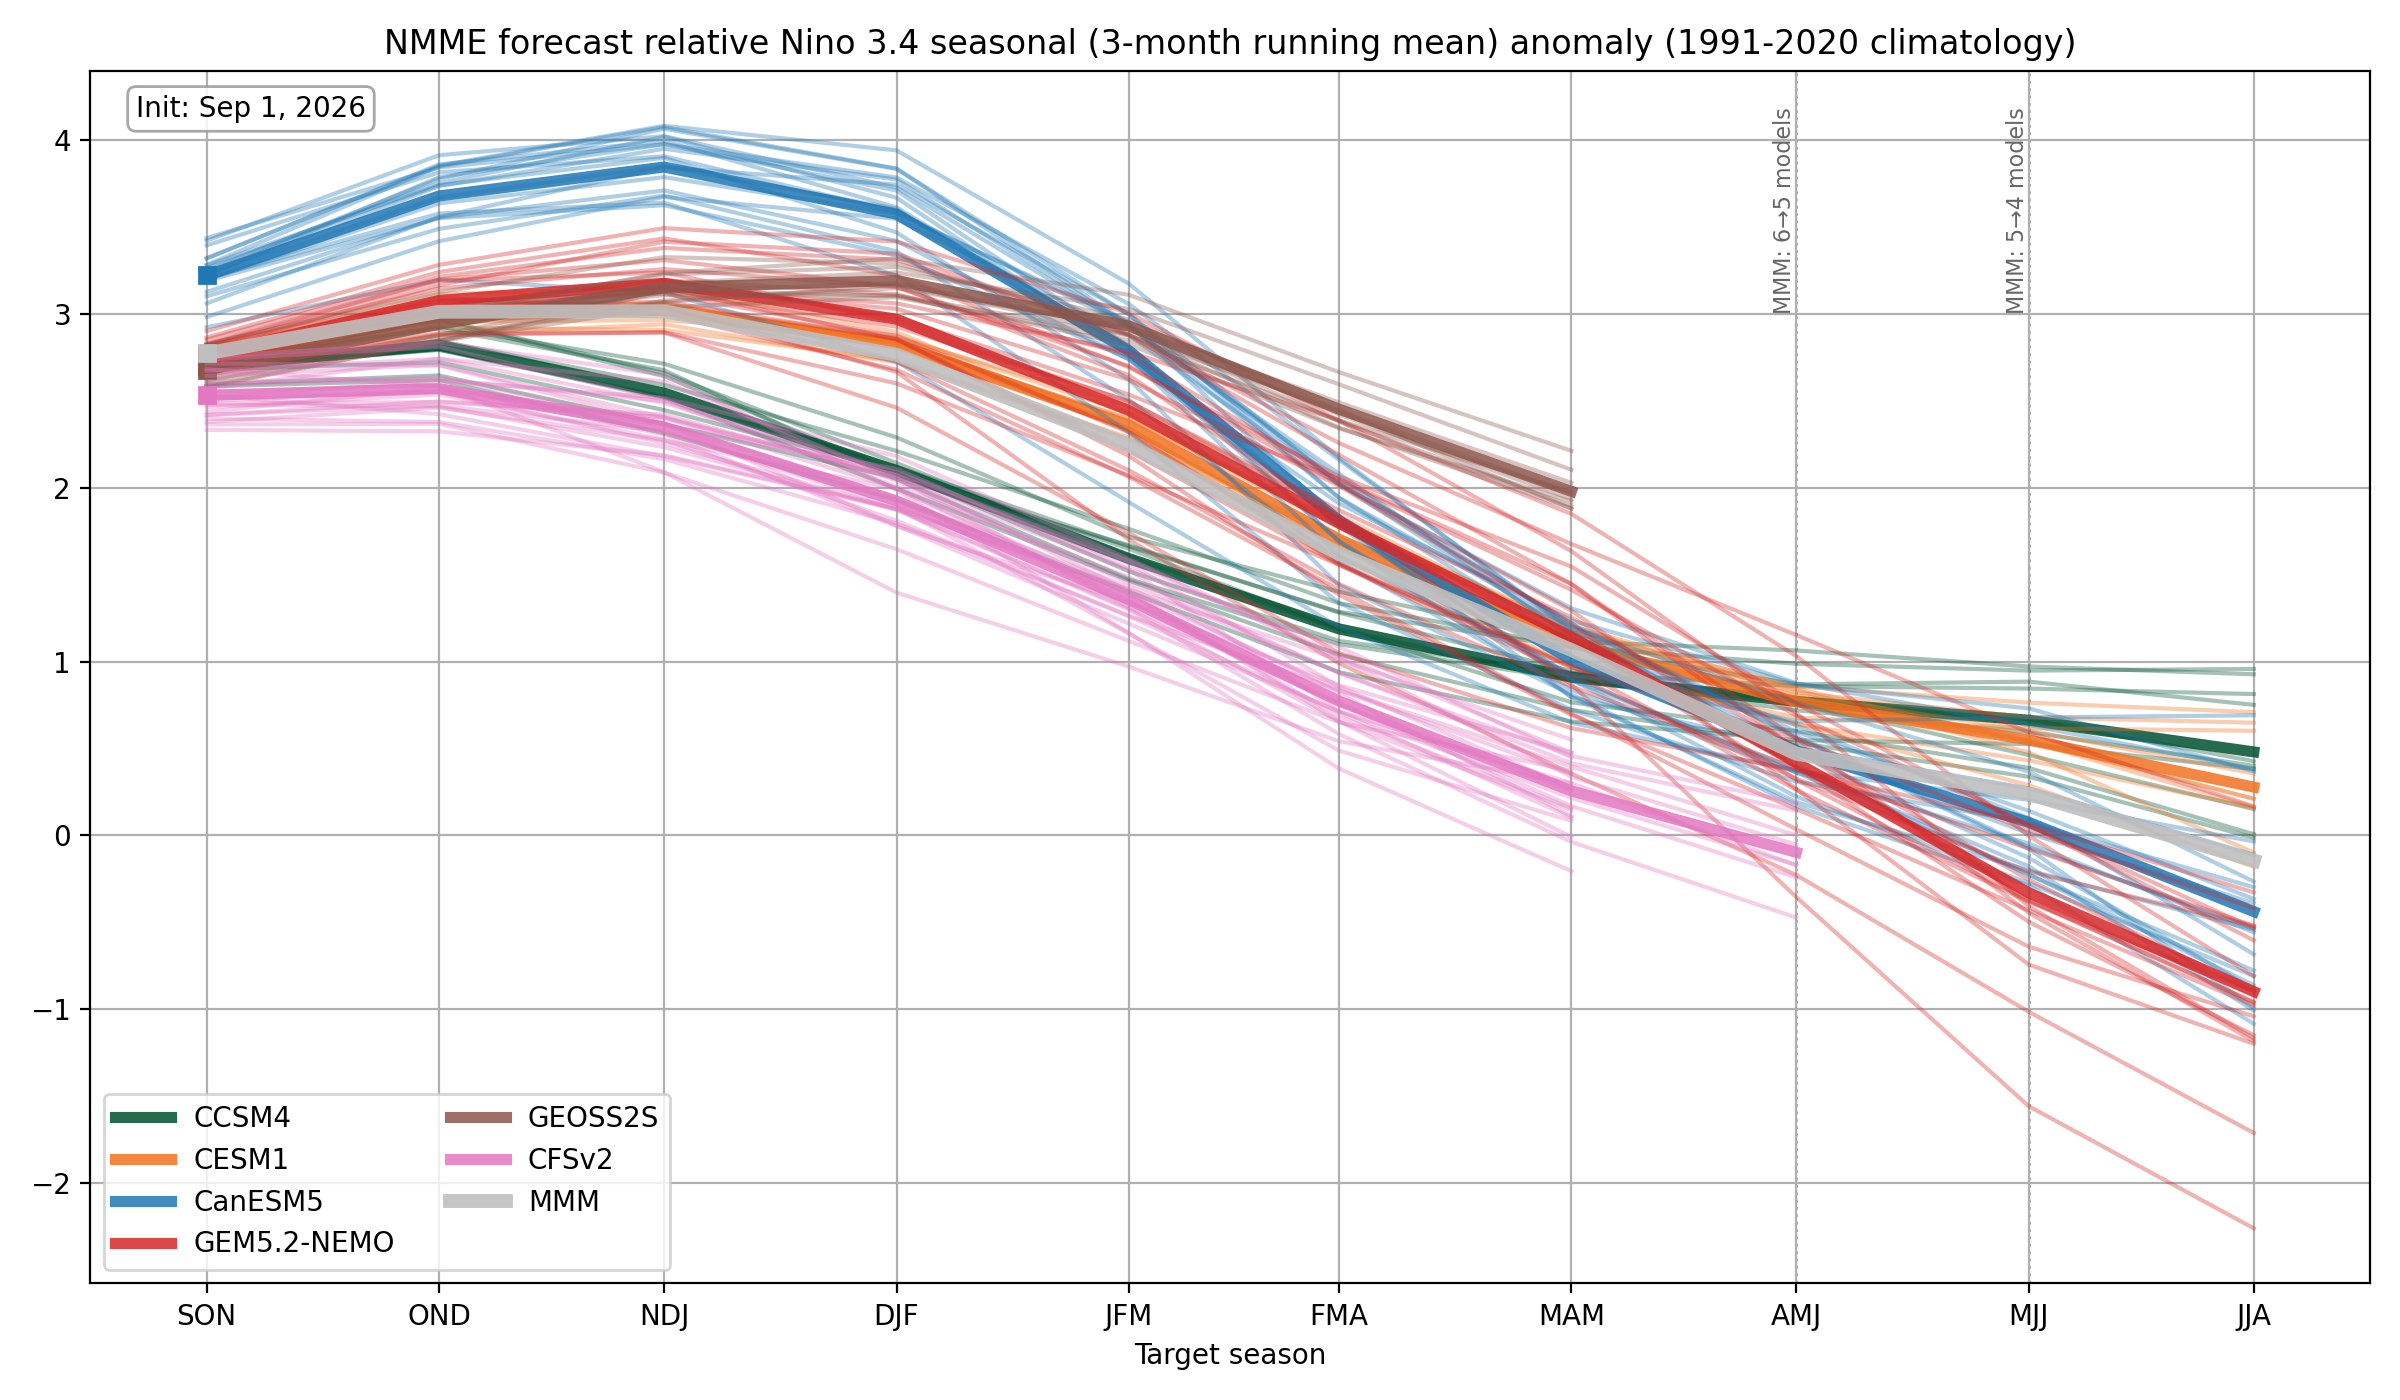
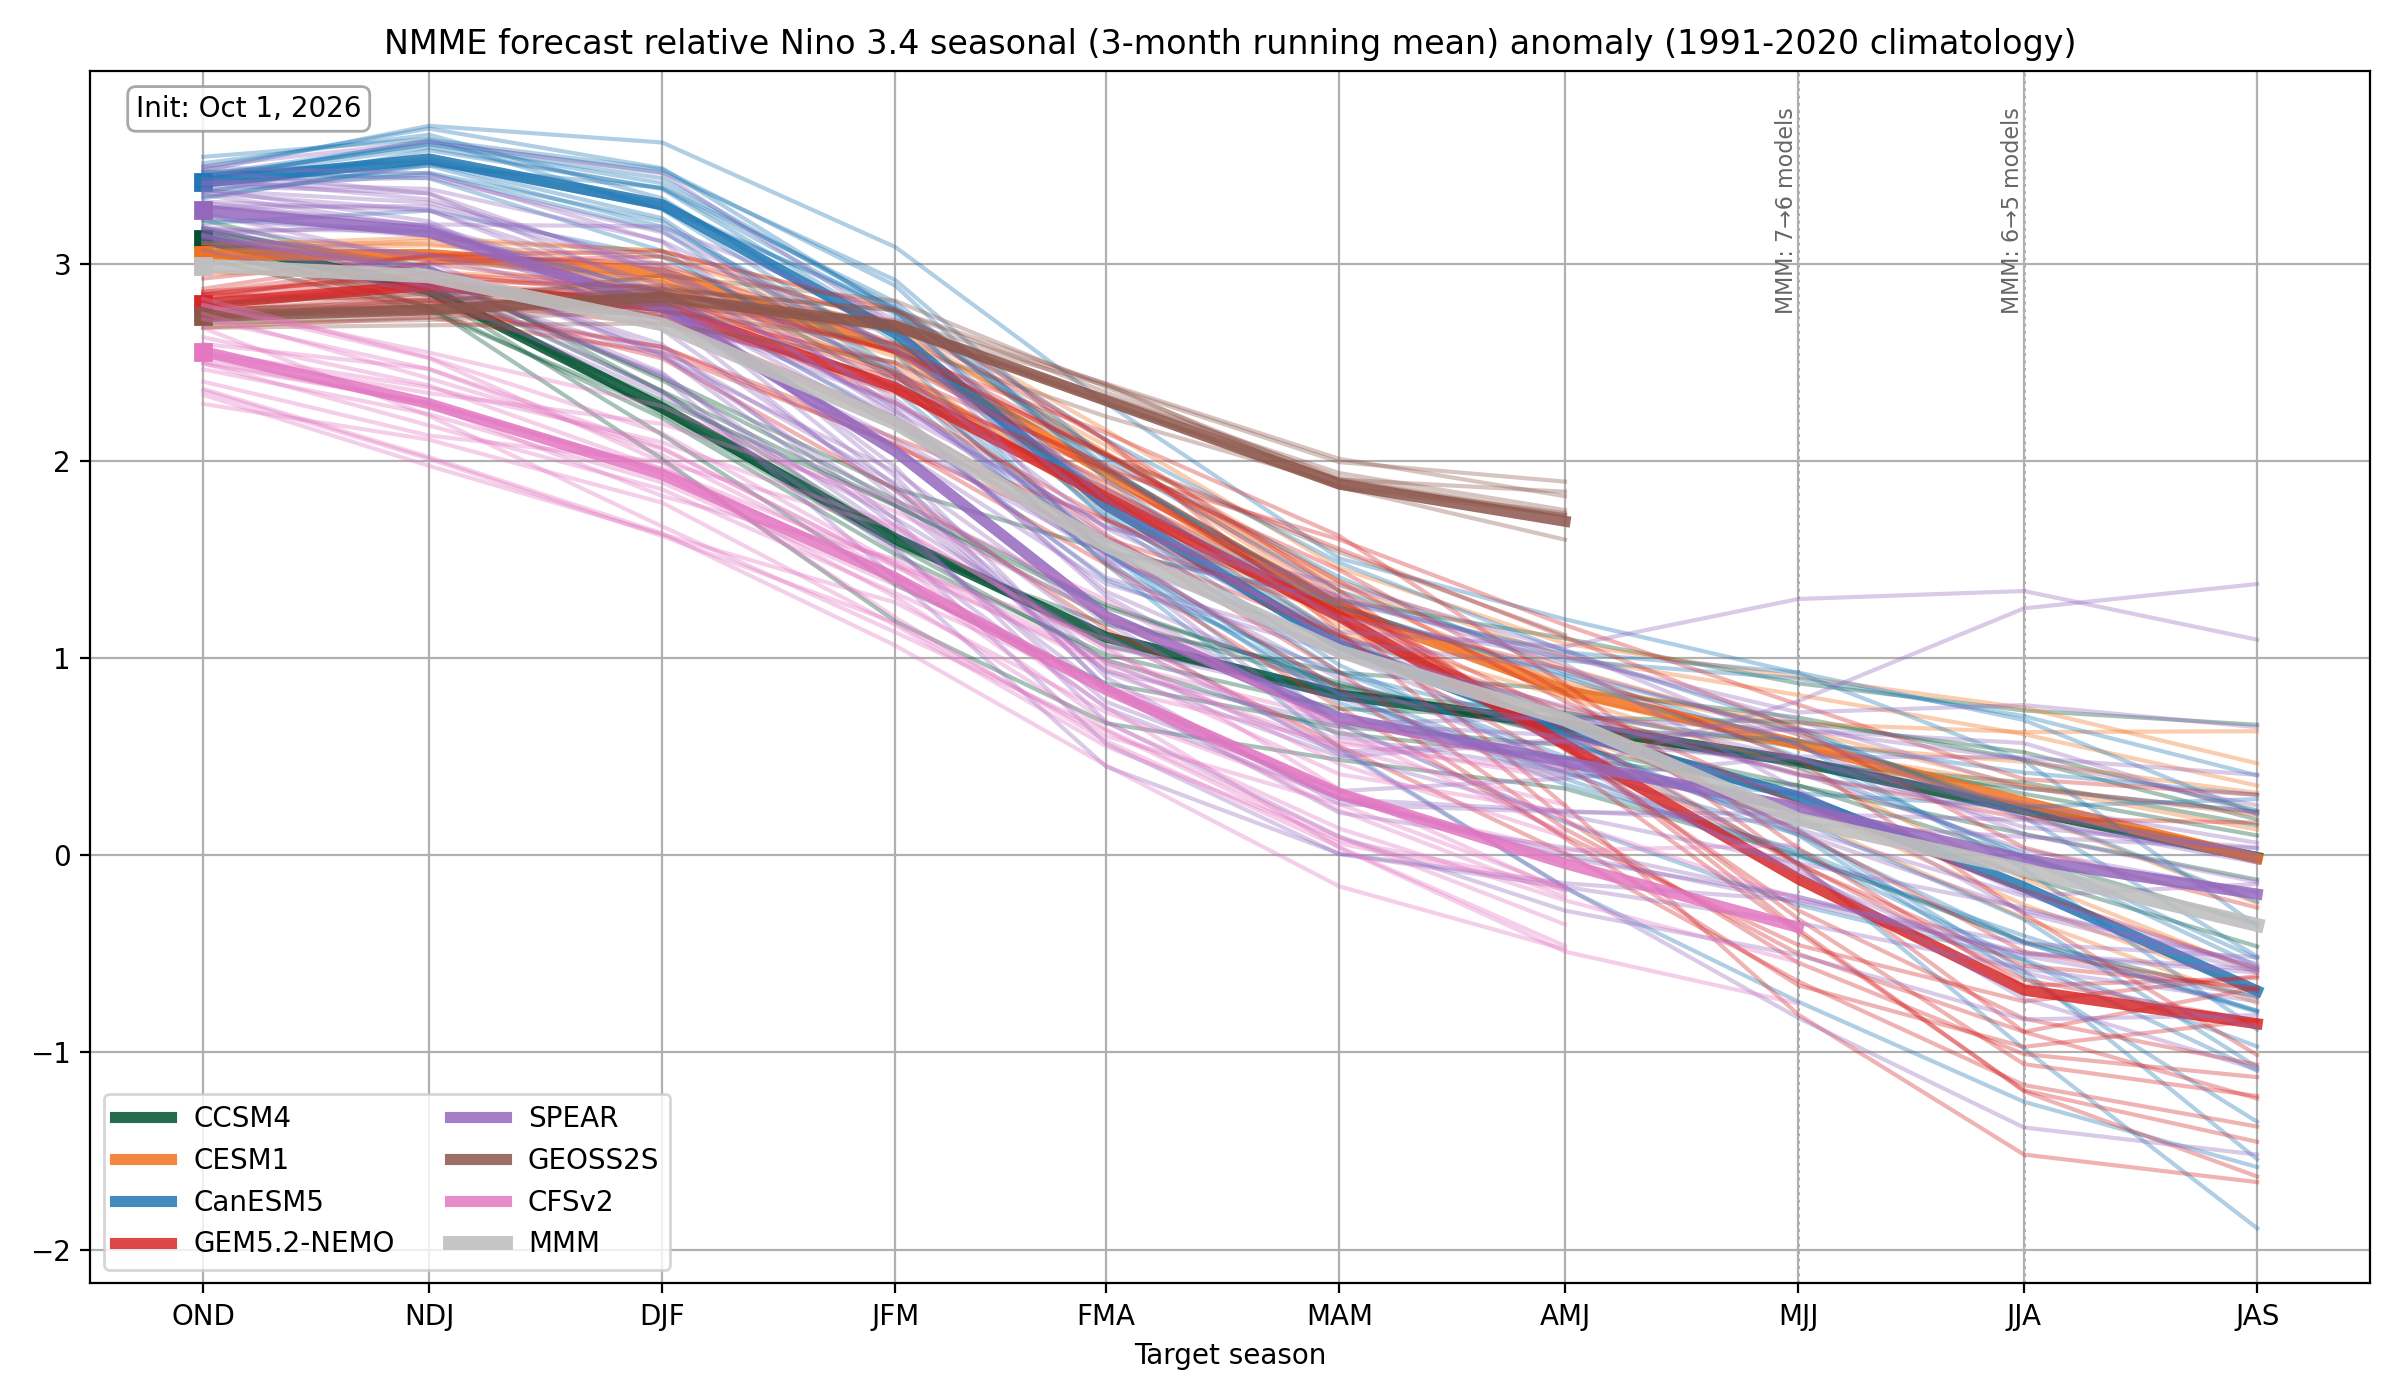
latest_forecast: regenerate for 2026-10 init; README update workflow
Add an 'Updating for a new initialization' subsection to README (refresh
ERSSTv5, rerun latest_forecast.py; cache self-invalidates on store
fingerprint), point the known-data-issue note at the 2026-10 init, and
refresh the GFDL-SPEAR MMM-membership open item (now 11 interior gaps).

diff --git a/specs/latest_forecast.md b/specs/latest_forecast.md
@@ -928,7 +928,7 @@ print("Verification passed.")
 
 - **Verification snippet's "Synthetic-plume sanity" block is broken** (pre-existing, found 2026-09-07 while re-running the full snippet after this session's `strength_probabilities` additions — not caused by this session's changes, confirmed unchanged in `git show HEAD:specs/latest_forecast.md`). It builds `avail` as *positional* indices (`np.where(...)[0]`) and passes them to `_synthetic_plume`, which does `ds[...].sel(model=avail_models)` — `.sel` expects model *names* (as `_available_models` in the actual script returns), so it raises `KeyError: "not all values found in index 'model'"`. Needs `avail_models = ds.model.isel(model=avail).values` (matching the pattern already used a few lines above in the "Summary-table rank sanity" block) before the `_synthetic_plume` calls. Not fixed this session (out of scope — unrelated to `strength_probabilities`); the rest of the snippet (through the new strength-category partition check) passes.
 - **`latest_forecast_summary.md` doesn't carry the same MMM-composition flag as the figures.** This session's `_annotate_mmm_steps` fix (see Synchronization Log 2026-09-07) is figure-only; `write_summary_tables`/`_historical_mmm` compute the same kind of shrinking-model-set MMM for the summary table's anomaly/rank rows but the table has no equivalent note when a lead's model count differs from the pool. Not addressed this session — scoped to "the latest plots" per the request that prompted the fix.
-- **Whether `GFDL-SPEAR` belongs in the MMM pool at all** — raised 2026-08-05, still open. 9 of its last 14 starts (2025-06 through 2026-06) are interior all-NaN upstream (see `config._nan_start_report`, Synchronization Log 2026-08-05), so it drops in and out of `avail`/the MMM ranking climatology inconsistently across recent inits, unlike a model that has simply reached its lead limit (which `_annotate_mmm_steps`, added this session, now flags). Needs a decision: exclude `GFDL-SPEAR` from the MMM pool until upstream is fixed, flag its intermittent absence the same way as the lead-limit case, or leave as-is pending an upstream fix. Not addressed this session.
+- **Whether `GFDL-SPEAR` belongs in the MMM pool at all** — raised 2026-08-05, still open. 9 of its last 14 starts (2025-06 through 2026-06) are interior all-NaN upstream (see `config._nan_start_report`, Synchronization Log 2026-08-05), so it drops in and out of `avail`/the MMM ranking climatology inconsistently across recent inits, unlike a model that has simply reached its lead limit (which `_annotate_mmm_steps`, added this session, now flags). Needs a decision: exclude `GFDL-SPEAR` from the MMM pool until upstream is fixed, flag its intermittent absence the same way as the lead-limit case, or leave as-is pending an upstream fix. Not addressed this session. *Update 2026-10-05:* the gap list has grown to 11 interior all-NaN starts (2026-08 and 2026-09 added); SPEAR is present at the 2026-10 init, so it is in this month's MMM but was absent from the two preceding ones — the inconsistency this item describes is ongoing. Decision still open.
 - **CanSIPS land is not NaN in the source store** (found 2026-09-27). `CanSIPS-IC4-CanESM5` and `CanSIPS-IC4-GEM52NEMO` in `~/claude/NMME-zarr` fill land with SST-like values, identical to the IRI archive. The tropical mean here is protected by the common mask (`config.tropics_ocean_mask`), but other consumers of the store (e.g. `~/claude/enso-t2m`, `~/claude/enso-indices-us`) are not. Decision to make in NMME-zarr: whether to NaN CanSIPS land at build time (and from which mask), and add build QA that fails when a group's 20S-20N land fraction is 0. If it does, update `TROPICS_MASK_EXCLUDE_GROUPS` here (the assertion will force it).
 
 ## Synchronization Log

diff --git a/plots/latest_forecast/latest_forecast_summary.md b/plots/latest_forecast/latest_forecast_summary.md
@@ -1,22 +1,22 @@
-# Latest-forecast MMM summary — start 2026-09
+# Latest-forecast MMM summary — start 2026-10
 
-Multi-model-mean (MMM) anomaly for the 12-lead forecast initialized September 2026, for the standard Niño-3.4 index (n34) and the relative Niño-3.4 index (n34r). Below each anomaly, its rank (1 = highest) among all MMM forecasts issued in September, 1991-present, same target period. MMM uses the fixed model set available for the current forecast, applied consistently across all ranked years (same MMM definition as the plume figures).
+Multi-model-mean (MMM) anomaly for the 12-lead forecast initialized October 2026, for the standard Niño-3.4 index (n34) and the relative Niño-3.4 index (n34r). Below each anomaly, its rank (1 = highest) among all MMM forecasts issued in October, 1991-present, same target period. MMM uses the fixed model set available for the current forecast, applied consistently across all ranked years (same MMM definition as the plume figures).
 
 ## Monthly
 
-| | Sep 2026 | Oct 2026 | Nov 2026 | Dec 2026 | Jan 2027 | Feb 2027 | Mar 2027 | Apr 2027 | May 2027 | Jun 2027 | Jul 2027 | Aug 2027 |
+| | Oct 2026 | Nov 2026 | Dec 2026 | Jan 2027 | Feb 2027 | Mar 2027 | Apr 2027 | May 2027 | Jun 2027 | Jul 2027 | Aug 2027 | Sep 2027 |
 |---|---|---|---|---|---|---|---|---|---|---|---|---|
-| n34 anom | 3.04 | 3.55 | 3.88 | 3.87 | 3.61 | 3.26 | 2.71 | 2.20 | 1.84 | 0.78 | 0.52 | 0.39 |
-| n34 rank (n=36) | 1 | 1 | 1 | 1 | 1 | 1 | 1 | 1 | 1 | 4 | 9 | 12 |
-| n34r anom | 2.39 | 2.80 | 3.11 | 3.12 | 2.80 | 2.33 | 1.54 | 1.00 | 0.78 | 0.09 | -0.23 | -0.41 |
-| n34r rank (n=36) | 1 | 1 | 1 | 1 | 1 | 1 | 1 | 1 | 1 | 17 | 25 | 30 |
+| n34 anom | 3.37 | 3.67 | 3.79 | 3.59 | 3.24 | 2.70 | 2.23 | 1.95 | 1.49 | 0.58 | 0.48 | 0.37 |
+| n34 rank (n=36) | 1 | 1 | 1 | 1 | 1 | 1 | 1 | 1 | 1 | 6 | 8 | 10 |
+| n34r anom | 2.90 | 3.06 | 3.01 | 2.72 | 2.29 | 1.49 | 0.94 | 0.78 | 0.42 | -0.23 | -0.37 | -0.48 |
+| n34r rank (n=36) | 1 | 1 | 1 | 1 | 1 | 1 | 1 | 1 | 4 | 27 | 28 | 30 |
 
 ## Seasonal (3-month running mean)
 
-| | SON | OND | NDJ | DJF | JFM | FMA | MAM | AMJ | MJJ | JJA |
+| | OND | NDJ | DJF | JFM | FMA | MAM | AMJ | MJJ | JJA | JAS |
 |---|---|---|---|---|---|---|---|---|---|---|
-| n34 anom | 3.49 | 3.76 | 3.78 | 3.58 | 3.19 | 2.72 | 2.25 | 1.29 | 0.99 | 0.61 |
-| n34 rank (n=36) | 1 | 1 | 1 | 1 | 1 | 1 | 1 | 1 | 1 | 5 |
-| n34r anom | 2.77 | 3.01 | 3.01 | 2.76 | 2.24 | 1.62 | 1.07 | 0.47 | 0.24 | -0.15 |
-| n34r rank (n=36) | 1 | 1 | 1 | 1 | 1 | 1 | 1 | 4 | 11 | 23 |
+| n34 anom | 3.61 | 3.68 | 3.54 | 3.18 | 2.72 | 2.29 | 1.89 | 1.04 | 0.77 | 0.51 |
+| n34 rank (n=36) | 1 | 1 | 1 | 1 | 1 | 1 | 1 | 1 | 4 | 8 |
+| n34r anom | 2.99 | 2.94 | 2.69 | 2.19 | 1.57 | 1.03 | 0.69 | 0.19 | -0.07 | -0.35 |
+| n34r rank (n=36) | 1 | 1 | 1 | 1 | 1 | 1 | 1 | 11 | 21 | 27 |
 

diff --git a/README.md b/README.md
@@ -49,7 +49,7 @@ initializations arrive):
 > members (2026-03 start, member 5; 2026-07 start, member 1) — flat or
 > inverted trajectories inconsistent with the rest of the ensemble — reported
 > upstream 2026-07-07 and still present in the archived data as of 2026-08-06.
-> Neither start is part of the plume above (now at the 2026-08 init, whose
+> Neither start is part of the plume above (now at the 2026-10 init, whose
 > members are clean); the defect resurfaces only if one of those two starts is
 > replotted directly, e.g. via `--init-date 2026-07`.
 
@@ -74,6 +74,22 @@ export ERSSTV5_NC=$PWD/$dest
 # 3. Run any script
 mamba run -n pangeo-local python scripts/skill.py
 ```
+
+### Updating for a new initialization
+
+Once [nmme-zarr](https://github.com/mktippett/nmme-zarr) has appended the
+new start to the store:
+
+```bash
+# 1. Refresh ERSSTv5 (the Quickstart step 2 command)
+# 2. Regenerate the latest-forecast figures and latest_forecast_summary.md;
+#    with no arguments the script uses the newest initialization in the store
+mamba run -n pangeo-local python scripts/latest_forecast.py
+```
+
+No manual cache clearing is needed. The `cache/` loader is keyed on each
+store group's S length, last start, and `last_updated` stamp, so a newly
+appended (or re-fetched trailing) start triggers a recompute automatically.
 
 ## Scripts
 
